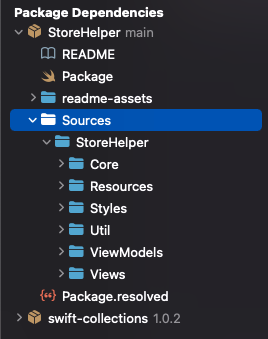
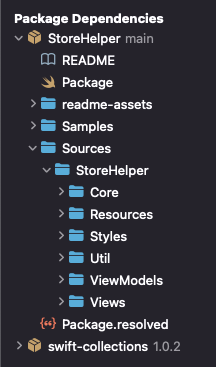
Updated readme and readme images

Changed region(s): [[0.0278, 0.2065, 1.0, 0.9735], [0.0556, 0.0, 0.7778, 0.177]]

diff --git a/README.md b/README.md
@@ -1,11 +1,11 @@
 #  StoreHelperDemo
 
-Implementing and testing In-App Purchases with `StoreKit2` in Xcode 13 with SwiftUI, Swift 5.5, iOS 15 and macOS 12.
+Implementing and testing in-App purchases with `StoreKit2` and `StoreHelper` in **Xcode 13** with **SwiftUI**, **Swift 5.5**, **iOS 15** and **macOS 12**.
 
 ---
 
 # Description
-![[StoreHelper Demo 0b.png | 125]]
+![](./readme-assets/StoreHelperDemo0c.png)
 
 This document describes how to create an example app that demonstrates how to support in-app purchases with **SwiftUI**, `StoreHelper`, `StoreKit2`, **Xcode 13**, **iOS 15** and **macOS 12**.
 
@@ -15,8 +15,7 @@ This document describes how to create an example app that demonstrates how to su
 ---
 
 # Quick Start
-## Use StoreHelper to support in-app purchases
-The following steps show to use `StoreHelper` to create bare-bones demo app that supports in-app purchases on **iOS 15** and **macOS 12**.
+The following steps show to use `StoreHelper` to create a bare-bones SwiftUI demo app that supports in-app purchases on **iOS 15** and **macOS 12**.
 
 ## What you'll need
 - **Xcode 13** installed on your Mac
@@ -24,14 +23,17 @@ The following steps show to use `StoreHelper` to create bare-bones demo app that
 - About 15-minutes!
 
 # Steps
-- Open Xcode and create a new project. Use either the iOS app, macOS app or multi-platform app template (these steps use the multi-platform template to create an app named "StoreHelperExample")
+- Open Xcode and create a new project. Use either the **iOS app**, **macOS app** or **multi-platform app** template. These steps use the multi-platform template to create an app named **"StoreHelperDemo"**
 - Select **File > Add Packages...**
-- Paste the URL of the `StoreHelper` package into the search box: https://github.com/russell-archer/StoreHelper
+- Paste the URL of the `StoreHelper` package into the search box: 
+
+    - https://github.com/russell-archer/StoreHelper
+
 - Click **Add Package**:
 
 ![](./readme-assets/StoreHelperDemo101.png)
 
-- Xcode will fetch the package and then display a confirmation. Click **Add Package**:
+- Xcode will fetch the package from GitHub and then display a confirmation. Click **Add Package**:
 
 ![](./readme-assets/StoreHelperDemo102.png)
 
@@ -39,7 +41,7 @@ The following steps show to use `StoreHelper` to create bare-bones demo app that
 
 ![](./readme-assets/StoreHelperDemo103.png)
 
-- Notice that `StoreHelper` and the `swift-collections` package (which is a dependency for `StoreHelper`) have been added to the project
+- Notice that the `StoreHelper` and `swift-collections` (which is a dependency for `StoreHelper`) packages have been added to the project
 - If you expand the `StoreHelper` package you'll be able to see the source:
 
 ![](./readme-assets/StoreHelperDemo104.png)
@@ -54,6 +56,12 @@ The following steps show to use `StoreHelper` to create bare-bones demo app that
 ![](./readme-assets/StoreHelperDemo106.png)
 
 - Open `StoreHelperExampleApp.swift` and replace the existing code with the following:
+
+> Alternatively, you can copy everything required for the **StoreHelperDemo** app from the **StoreHelper > Samples** folder:
+> - Copy all files in **StoreHelper > Samples > Code** into your project's **Shared** folder
+> - Copy all files in **StoreHelper > Samples > Configuration** into your project's **Shared** folder
+> - Copy all files in **StoreHelper > Samples > Code** into your project's **Shared** folder
+> - Add all the images in **StoreHelper > Samples > Images** into your project's **Asset Catalog** folder
 
 ```swift
 import SwiftUI
